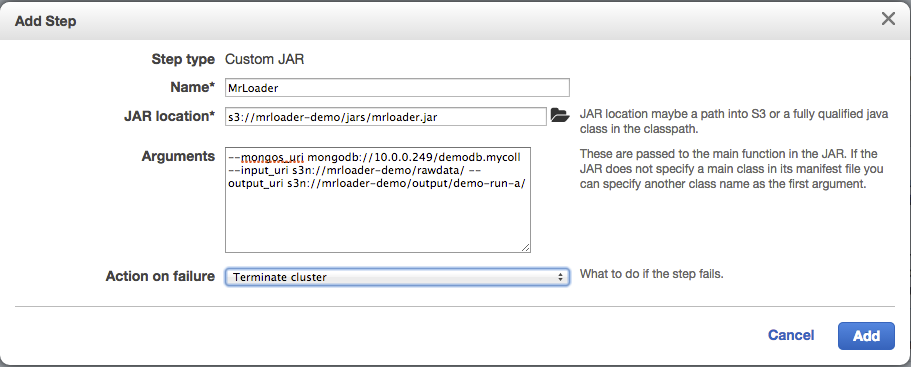
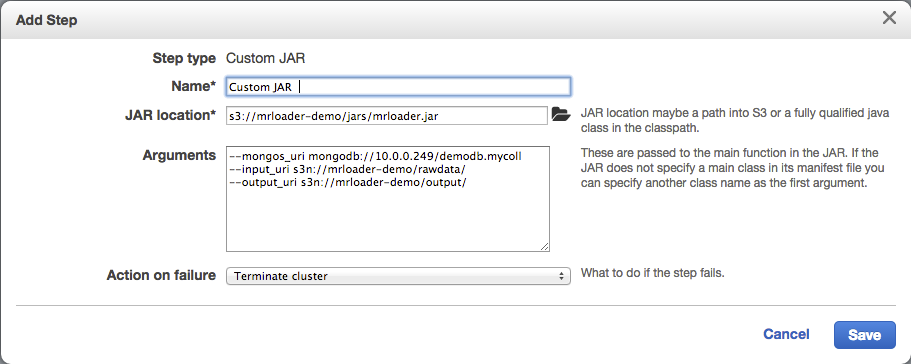
docs for running and monitoring

diff --git a/README.md b/README.md
@@ -147,30 +147,55 @@ mongos> exit
 
 ## Running the EMR Job
 
-With the JAR file is deployed and the MongoDB cluster running, it is very easy to spin up a loader cluster from the [AWS EMR Console](console.aws.amazon.com/elasticmapreduce). Once you have run a job before already, you will be able to choose a previous run and clone the configuration to run a similar job. To create your first job, hit the "Create Cluster" button.
+With the JAR file deployed and the MongoDB cluster running, it is very easy to spin up a loader cluster from the [AWS EMR Console](http://console.aws.amazon.com/elasticmapreduce). Once you have run a job, you will be able to choose a previous run and clone the configuration to run a similar one. To create your first job, hit the "Create Cluster" button.
 
 You will need to name the cluster and point to your "logs" folder in the S3 bucket for logging output. Optionally, tag your cluster with something to make the EC2 instances associated with the cluster easy to identify :
 
 ![alt text](doc/emr-setup-name.png "Create Cluster")
 
-Next, scroll to the software configuration and select the 2.4.8 AMI version (which mrloader.jar is built against), you may also delete PIG and HIVE applications as they are not required and take time to install and configure :
+Next, scroll to the software configuration and select the 2.4.8 AMI version (which mrloader.jar is built against), you may also delete PIG and HIVE applications as they are not required and only take time to install and configure :
 
 ![alt text](doc/emr-setup-software.png "Software Configuration")
 
-In the hardware configuration, specify the desired cluster size, typically a larger Master instance and as many core nodes as you wish. The more core nodes you configure, the more concurrent loaders will be deployed reading and inserting in parallel (see optional bootstrapping section for more information) :
+In the hardware configuration, specify the VPC and Subnet details and the desired cluster size. The more core nodes you configure, the more concurrent loaders will be deployed reading and inserting in parallel (see optional bootstrapping section for more information) :
 
 ![alt text](doc/emr-setup-hardware.png "Hardware Configuration")
 
-Finally, at the "Steps" section choose *Custom JAR* from the *Add Step* dropdown and click *Configure and add*. You will be presented with the following form :
+Finally, at the "Steps" section choose **Custom JAR** from the **Add Step** dropdown and click **Configure and add**. You will be presented with the following form :
 
 ![alt text](doc/emr-setup-jarstep.png "Add Step")
 
-Enter a name to identify the step and point to the S3 location of the uploaded JAR file. The mrloader.jar contains a main class that will be passed any arguments supplied here. Refer to the reference section for full usage, the required arguments shown here are :
+Enter a name to identify the step and point to the S3 location of the uploaded JAR file. The MrLoader JAR contains a main class that will be passed any arguments supplied here. Refer to the reference section for full usage, the required arguments are :
 
-* *--mongos_uri* - A URI which conforms to the MongoDB Java Driver [MongoClientURI specification](http://api.mongodb.org/java/2.12/com/mongodb/MongoClientURI.html). The URI must contain a valid collection endpoint into which the data will be inserted. For our example, this points to the mongos instance and provides the correct database and collection.
-* *--input_uri* - The S3 location containing the input text files for the data load
-* *--output_uri* - The S3 location for the EMR job to write its output (by default MrLoader writes latency information for each insert batch). This path should be unique for each run to avoid the output of multiple runs overwriting each other.
+* **--mongos_uri** - A URI which conforms to the MongoDB Java Driver [MongoClientURI specification](http://api.mongodb.org/java/2.12/com/mongodb/MongoClientURI.html). The URI must contain a valid collection endpoint into which the data will be inserted. For our example, this points to the mongos instance and provides the correct database and collection.
+* **--input_uri** - The S3 location containing the input text files for the data load.
+* **--output_uri** - The S3 location for the EMR job to write its output (by default MrLoader writes latency information for each insert batch). This would typically be set to *<S3 bucket root>/output* as the loader will append the unique Job ID to this path.
 
+After configuring the Custom JAR step, hit the **Create Cluster** button at the bottom to start the job.
+
+### Monitoring Progress
+
+Once the EMR Job starts, the console will show a details page which is updated with cluster status. Initially, the cluster will be provisioning and bootstrapping machines :
+
+![alt text](doc/emr-job-provisioning.png "Provisioning Cluster")
+
+After the cluster is provisioned, it will move to the running state and begin executing the steps, including the loader job :
+
+![alt text](doc/emr-job-running.png "Running Cluster")
+
+Under the **Map/Reduce** section, there are a series of stats that can be refreshed as the job runs. EMR will chunk large files into tasks and create tasks for smaller files, then generate a **Map Tasks Remaining** graph which will burn down to zero as the ob progresses :
+
+![alt text](doc/emr-mapreduce-stats.png "MapReduce Stats")
+
+At this time, you can also check that the target collection in MongoDB is receiving inserts. The [MongoDB Management Service](http://mms.mongodb.com) is a good way to confirm this, this is what the demo run looks like for a small MongoDB Cluster :
+
+![alt text](doc/mms-large-load.png "Loading 500,000 docs per seconds")
+
+## Mongos Discovery
+
+## JAR Argument Reference
+
+--mongos_uri mongodb://10.0.0.249/demodb.mycoll --input_uri s3n://mrloader-demo/rawdata/ --output_uri s3n://mrloader-demo/output/ 
 Default #tasks per host
 http://docs.aws.amazon.com/ElasticMapReduce/latest/DeveloperGuide/TaskConfiguration.html
 
